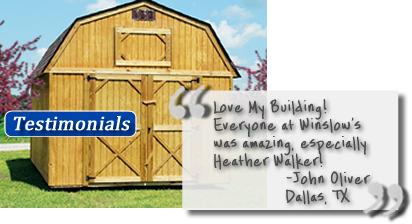
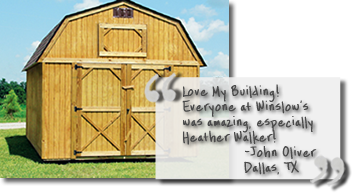
Index Page Design Tweaks

diff --git a/public/css/winslows/index/index.css b/public/css/winslows/index/index.css
@@ -157,7 +157,7 @@
 {
 }
 
-#important-links-container #testimonial_image
+#important-links-container #testimonial_image #testimonial-link-label div
 {
     margin: 15px;
 }
